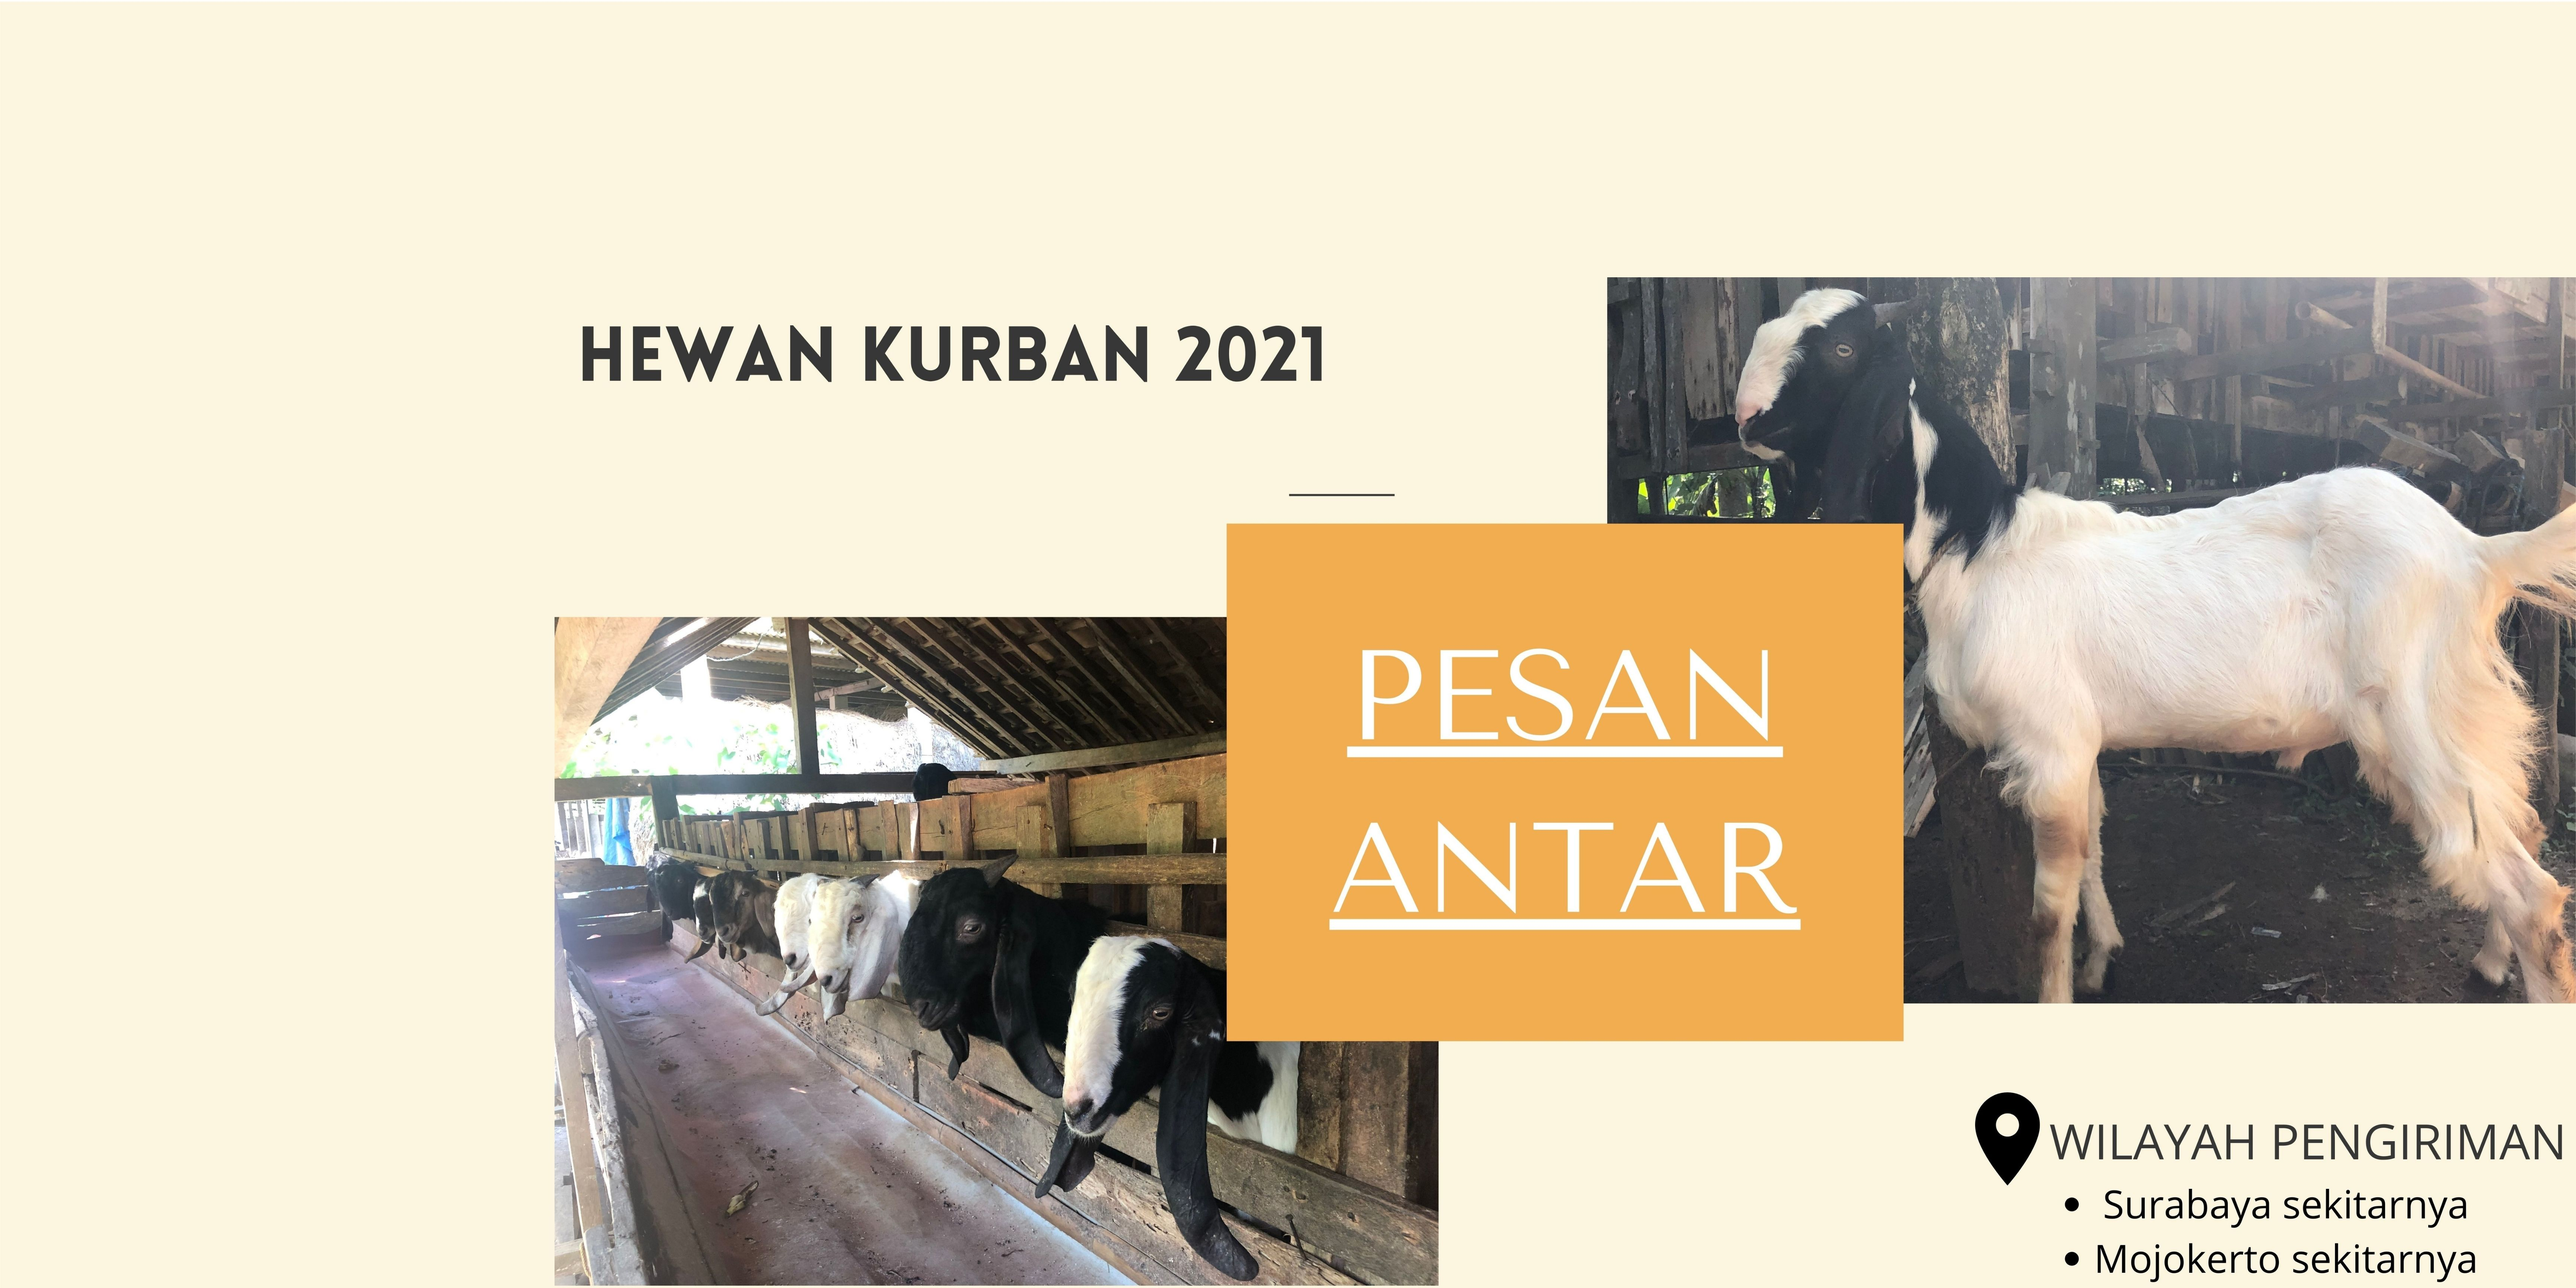
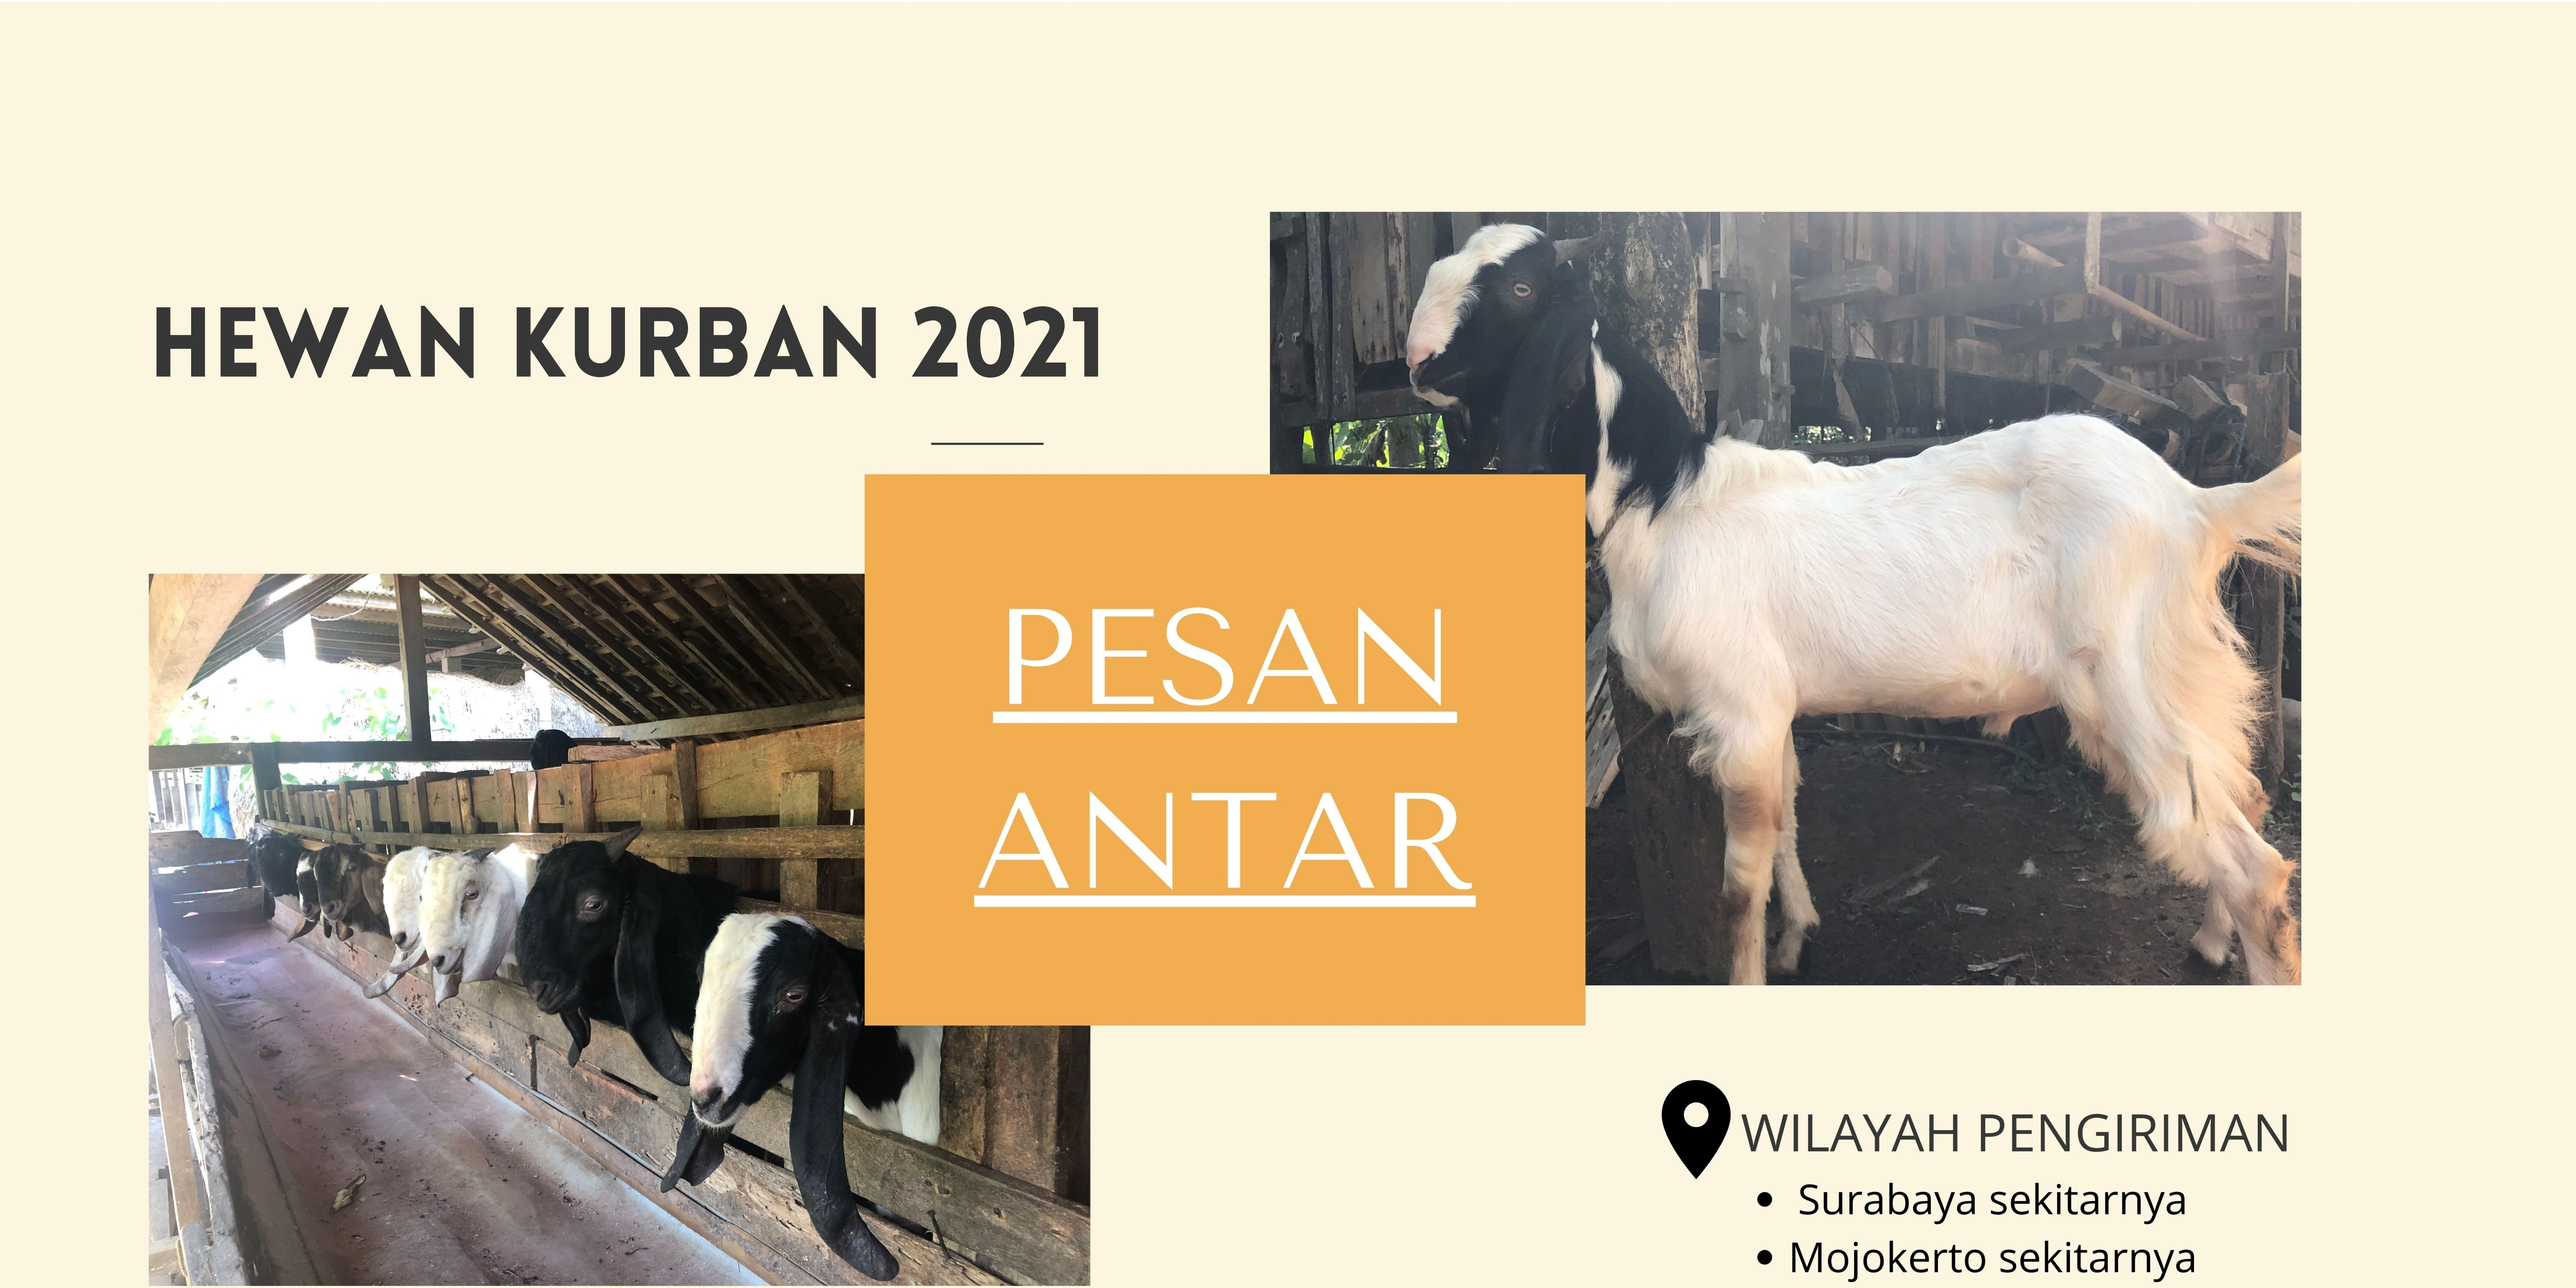
edit photo

diff --git a/index.html b/index.html
@@ -73,15 +73,11 @@
     <section class="hero-large hero">
       <div id="demo" class="carousel slide" data-ride="carousel">
         <ul class="carousel-indicators">
-          <li data-target="#demo" data-slide-to="0" class="active"></li>
-          <li data-target="#demo" data-slide-to="1"></li>
         </ul>
         <div class="carousel-inner">
           <div class="carousel-item active">
-            <img src="assets/img/HEWAN KURBAN 2021.jpg" alt="Los Angeles" width="1100" height="500">
+            <img src="assets/img/HEWAN KURBAN 2021.jpg" alt="Los Angeles" width="1100" height="800">
             <div class="container">
-              <div class="carousel-caption">
-              </div>
             </div>
           </div>
         </div>
